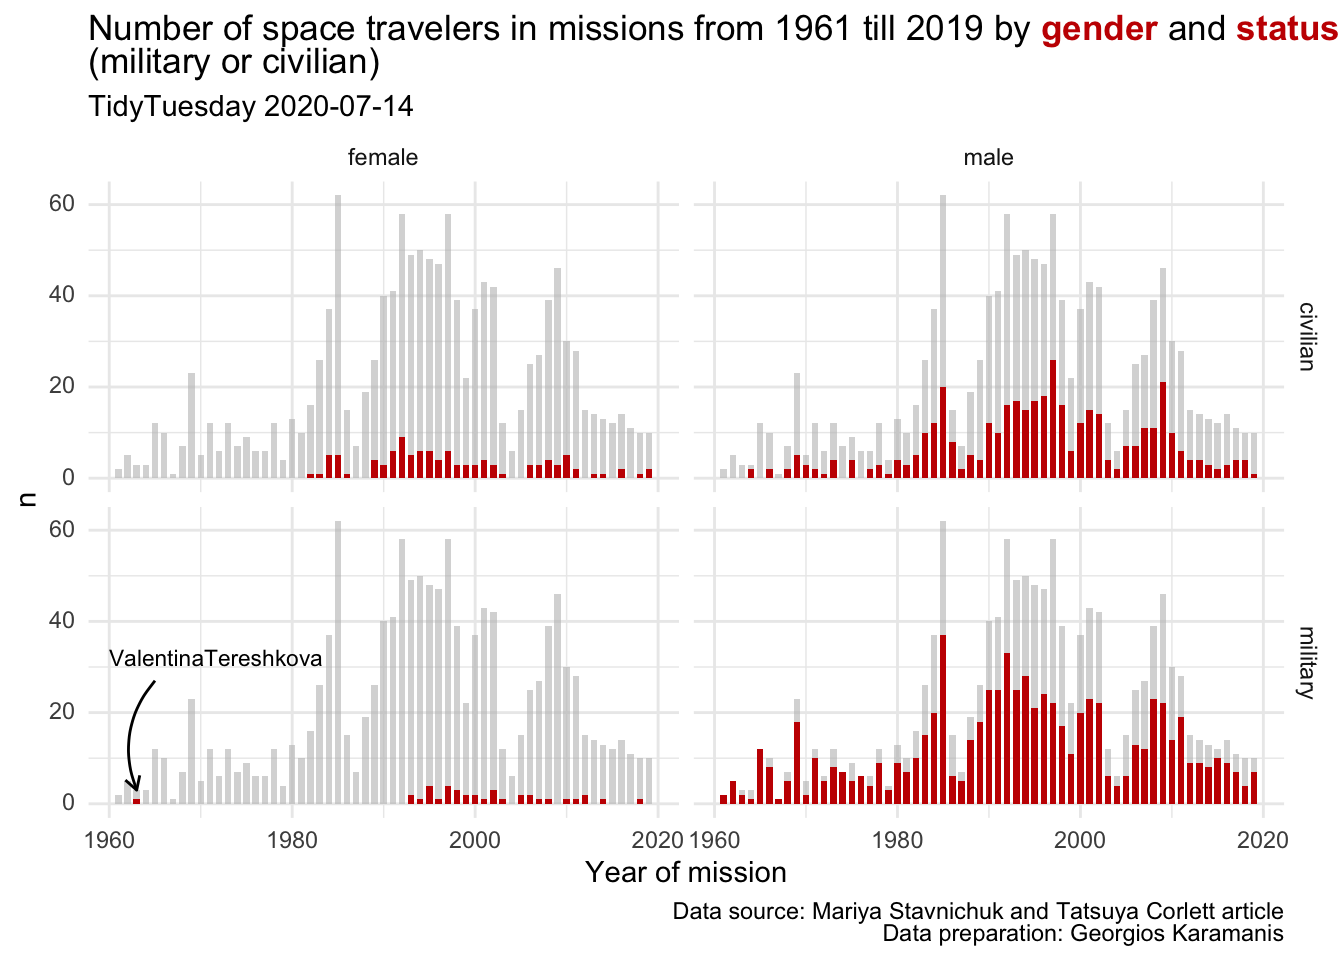
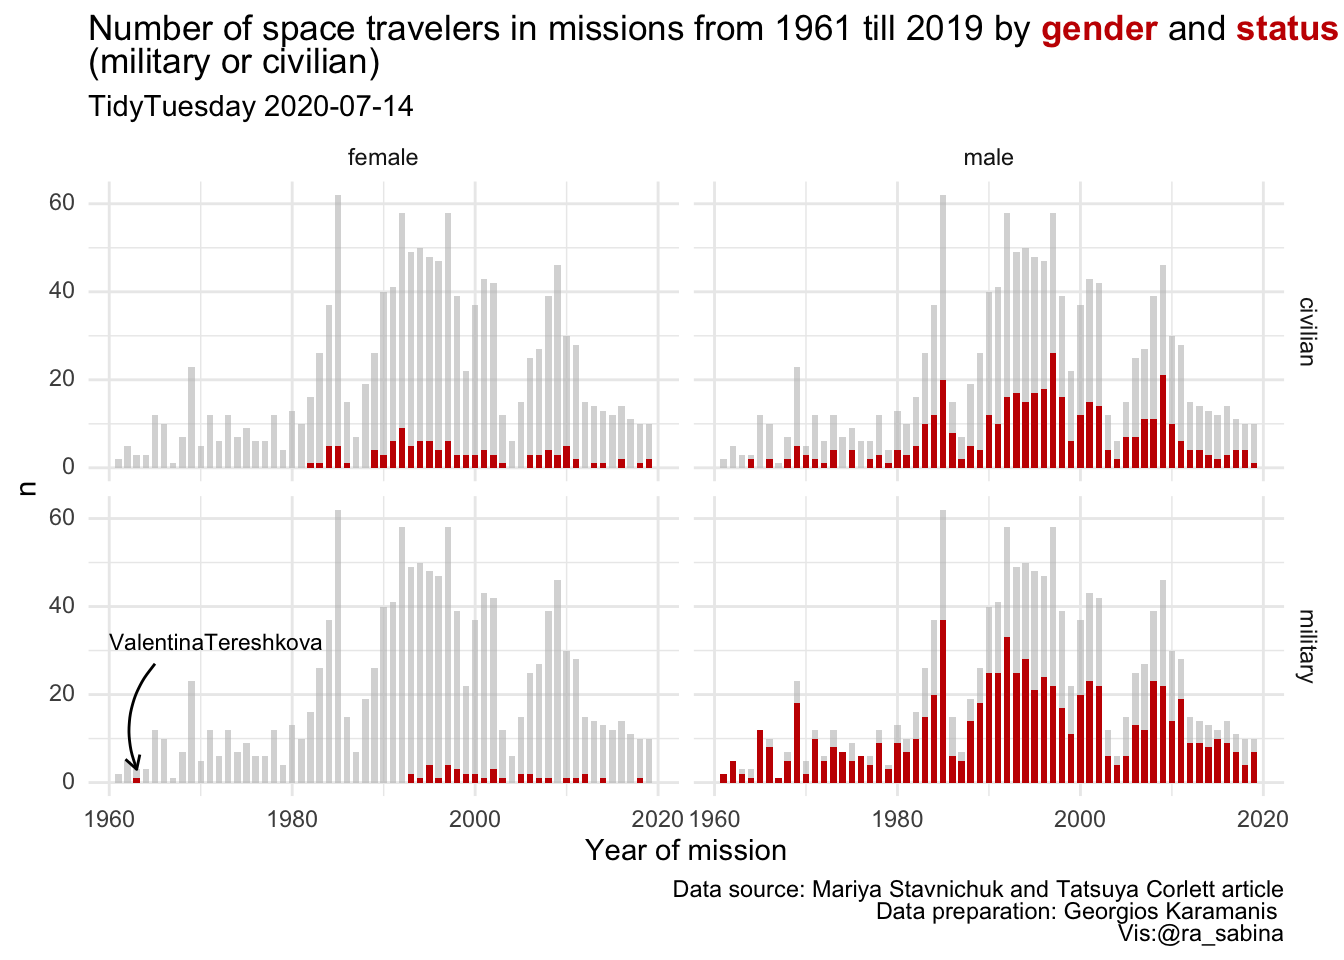
Build site.

diff --git a/docs/ttw29astronauts.html b/docs/ttw29astronauts.html
@@ -410,7 +410,7 @@ div.tocify {
 <div class="tab-content">
 <div id="summary" class="tab-pane fade in active">
 <p>
-<strong>Last updated:</strong> 2020-09-10
+<strong>Last updated:</strong> 2020-09-11
 </p>
 <p>
 <strong>Checks:</strong> <span class="glyphicon glyphicon-ok text-success" aria-hidden="true"></span> 7 <span class="glyphicon glyphicon-exclamation-sign text-danger" aria-hidden="true"></span> 0
@@ -501,16 +501,16 @@ This reproducible <a href="http://rmarkdown.rstudio.com">R Markdown</a> analysis
 <div class="panel panel-default">
 <div class="panel-heading">
 <p class="panel-title">
-<a data-toggle="collapse" data-parent="#workflowr-checks" href="#strongRepositoryversionstrongahrefhttpsgithubcomSabinaRatidytuesdaytree304b51219d8760bfdd3509918ac3e0d3a50d3c5ftargetblank304b512a"> <span class="glyphicon glyphicon-ok text-success" aria-hidden="true"></span> <strong>Repository version:</strong> <a href="https://github.com/SabinaRa/tidytuesday/tree/304b51219d8760bfdd3509918ac3e0d3a50d3c5f" target="_blank">304b512</a> </a>
+<a data-toggle="collapse" data-parent="#workflowr-checks" href="#strongRepositoryversionstrongahrefhttpsgithubcomSabinaRatidytuesdaytreef739906c455e5e831137bc5bf4555150503d8bf1targetblankf739906a"> <span class="glyphicon glyphicon-ok text-success" aria-hidden="true"></span> <strong>Repository version:</strong> <a href="https://github.com/SabinaRa/tidytuesday/tree/f739906c455e5e831137bc5bf4555150503d8bf1" target="_blank">f739906</a> </a>
 </p>
 </div>
[2 lines of base64/hex data omitted]
 <div class="panel-body">
 <p>
 Great! You are using Git for version control. Tracking code development and connecting the code version to the results is critical for reproducibility.
 </p>
 <p>
-The results in this page were generated with repository version <a href="https://github.com/SabinaRa/tidytuesday/tree/304b51219d8760bfdd3509918ac3e0d3a50d3c5f" target="_blank">304b512</a>. See the <em>Past versions</em> tab to see a history of the changes made to the R Markdown and HTML files.
+The results in this page were generated with repository version <a href="https://github.com/SabinaRa/tidytuesday/tree/f739906c455e5e831137bc5bf4555150503d8bf1" target="_blank">f739906</a>. See the <em>Past versions</em> tab to see a history of the changes made to the R Markdown and HTML files.
 </p>
 <p>
 Note that you need to be careful to ensure that all relevant files for the analysis have been committed to Git prior to generating the results (you can use <code>wflow_publish</code> or <code>wflow_git_commit</code>). workflowr only checks the R Markdown file, but you know if there are other scripts or data files that it depends on. Below is the status of the Git repository when the results were generated:
@@ -560,6 +560,40 @@ Message
 </tr>
 </thead>
 <tbody>
+<tr>
+<td>
+Rmd
+</td>
+<td>
+<a href="https://github.com/SabinaRa/tidytuesday/blob/f739906c455e5e831137bc5bf4555150503d8bf1/analysis/ttw29astronauts.Rmd" target="_blank">f739906</a>
+</td>
+<td>
+Sabina Rako
+</td>
+<td>
+2020-09-11
+</td>
+<td>
+Plot updated
+</td>
+</tr>
+<tr>
+<td>
+html
+</td>
+<td>
+<a href="https://rawcdn.githack.com/SabinaRa/tidytuesday/349209a423e45ed0a0b612e86b5ba5ff4055f228/docs/ttw29astronauts.html" target="_blank">349209a</a>
+</td>
+<td>
+Sabina Rako
+</td>
+<td>
+2020-09-10
+</td>
+<td>
+Build site.
+</td>
+</tr>
 <tr>
 <td>
 html
@@ -1254,7 +1288,7 @@ astronauts_g_mc</code></pre>
   facet_grid( military_civilian ~ sex) + 
   xlab(&quot;Year of mission&quot;) + 
   mdthemes::md_theme_minimal() + 
-  labs(title = &quot;Number of space travelers in missions from 1961 till 2019 by &lt;span style=color:#c70000&gt;**gender**&lt;/span&gt; and &lt;span style=color:#c70000&gt;**status**&lt;/span&gt;&lt;br&gt;(military or civilian)&quot;, subtitle = &quot;TidyTuesday 2020-07-14&quot;, caption = &quot;Data source: Mariya Stavnichuk and Tatsuya Corlett article&lt;br&gt;Data preparation: Georgios Karamanis&quot;) 
+  labs(title = &quot;Number of space travelers in missions from 1961 till 2019 by &lt;span style=color:#c70000&gt;**gender**&lt;/span&gt; and &lt;span style=color:#c70000&gt;**status**&lt;/span&gt;&lt;br&gt;(military or civilian)&quot;, subtitle = &quot;TidyTuesday 2020-07-14&quot;, caption = &quot;Data source: Mariya Stavnichuk and Tatsuya Corlett article&lt;br&gt;Data preparation: Georgios Karamanis &lt;br&gt; Vis:@ra_sabina&quot;) 
 
 p</code></pre>
 <p><img src="figure/ttw29astronauts.Rmd/unnamed-chunk-4-1.png" width="672" style="display: block; margin: auto;" /></p>

diff --git a/docs/license.html b/docs/license.html
@@ -334,7 +334,7 @@ $(document).ready(function () {
 <div class="tab-content">
 <div id="summary" class="tab-pane fade in active">
 <p>
-<strong>Last updated:</strong> 2020-09-10
+<strong>Last updated:</strong> 2020-09-11
 </p>
 <p>
 <strong>Checks:</strong> <span class="glyphicon glyphicon-ok text-success" aria-hidden="true"></span> 2 <span class="glyphicon glyphicon-exclamation-sign text-danger" aria-hidden="true"></span> 0
@@ -365,16 +365,16 @@ This reproducible <a href="http://rmarkdown.rstudio.com">R Markdown</a> analysis
 <div class="panel panel-default">
 <div class="panel-heading">
 <p class="panel-title">
-<a data-toggle="collapse" data-parent="#workflowr-checks" href="#strongRepositoryversionstrongahrefhttpsgithubcomSabinaRatidytuesdaytree304b51219d8760bfdd3509918ac3e0d3a50d3c5ftargetblank304b512a"> <span class="glyphicon glyphicon-ok text-success" aria-hidden="true"></span> <strong>Repository version:</strong> <a href="https://github.com/SabinaRa/tidytuesday/tree/304b51219d8760bfdd3509918ac3e0d3a50d3c5f" target="_blank">304b512</a> </a>
+<a data-toggle="collapse" data-parent="#workflowr-checks" href="#strongRepositoryversionstrongahrefhttpsgithubcomSabinaRatidytuesdaytreef739906c455e5e831137bc5bf4555150503d8bf1targetblankf739906a"> <span class="glyphicon glyphicon-ok text-success" aria-hidden="true"></span> <strong>Repository version:</strong> <a href="https://github.com/SabinaRa/tidytuesday/tree/f739906c455e5e831137bc5bf4555150503d8bf1" target="_blank">f739906</a> </a>
 </p>
 </div>
[2 lines of base64/hex data omitted]
 <div class="panel-body">
 <p>
 Great! You are using Git for version control. Tracking code development and connecting the code version to the results is critical for reproducibility.
 </p>
 <p>
-The results in this page were generated with repository version <a href="https://github.com/SabinaRa/tidytuesday/tree/304b51219d8760bfdd3509918ac3e0d3a50d3c5f" target="_blank">304b512</a>. See the <em>Past versions</em> tab to see a history of the changes made to the R Markdown and HTML files.
+The results in this page were generated with repository version <a href="https://github.com/SabinaRa/tidytuesday/tree/f739906c455e5e831137bc5bf4555150503d8bf1" target="_blank">f739906</a>. See the <em>Past versions</em> tab to see a history of the changes made to the R Markdown and HTML files.
 </p>
 <p>
 Note that you need to be careful to ensure that all relevant files for the analysis have been committed to Git prior to generating the results (you can use <code>wflow_publish</code> or <code>wflow_git_commit</code>). workflowr only checks the R Markdown file, but you know if there are other scripts or data files that it depends on. Below is the status of the Git repository when the results were generated:
@@ -424,6 +424,23 @@ Message
 </tr>
 </thead>
 <tbody>
+<tr>
+<td>
+html
+</td>
+<td>
+<a href="https://rawcdn.githack.com/SabinaRa/tidytuesday/349209a423e45ed0a0b612e86b5ba5ff4055f228/docs/license.html" target="_blank">349209a</a>
+</td>
+<td>
+Sabina Rako
+</td>
+<td>
+2020-09-10
+</td>
+<td>
+Build site.
+</td>
+</tr>
 <tr>
 <td>
 html

diff --git a/docs/about.html b/docs/about.html
@@ -334,7 +334,7 @@ $(document).ready(function () {
 <div class="tab-content">
 <div id="summary" class="tab-pane fade in active">
 <p>
-<strong>Last updated:</strong> 2020-09-10
+<strong>Last updated:</strong> 2020-09-11
 </p>
 <p>
 <strong>Checks:</strong> <span class="glyphicon glyphicon-ok text-success" aria-hidden="true"></span> 2 <span class="glyphicon glyphicon-exclamation-sign text-danger" aria-hidden="true"></span> 0
@@ -365,16 +365,16 @@ This reproducible <a href="http://rmarkdown.rstudio.com">R Markdown</a> analysis
 <div class="panel panel-default">
 <div class="panel-heading">
 <p class="panel-title">
-<a data-toggle="collapse" data-parent="#workflowr-checks" href="#strongRepositoryversionstrongahrefhttpsgithubcomSabinaRatidytuesdaytree304b51219d8760bfdd3509918ac3e0d3a50d3c5ftargetblank304b512a"> <span class="glyphicon glyphicon-ok text-success" aria-hidden="true"></span> <strong>Repository version:</strong> <a href="https://github.com/SabinaRa/tidytuesday/tree/304b51219d8760bfdd3509918ac3e0d3a50d3c5f" target="_blank">304b512</a> </a>
+<a data-toggle="collapse" data-parent="#workflowr-checks" href="#strongRepositoryversionstrongahrefhttpsgithubcomSabinaRatidytuesdaytreef739906c455e5e831137bc5bf4555150503d8bf1targetblankf739906a"> <span class="glyphicon glyphicon-ok text-success" aria-hidden="true"></span> <strong>Repository version:</strong> <a href="https://github.com/SabinaRa/tidytuesday/tree/f739906c455e5e831137bc5bf4555150503d8bf1" target="_blank">f739906</a> </a>
 </p>
 </div>
[2 lines of base64/hex data omitted]
 <div class="panel-body">
 <p>
 Great! You are using Git for version control. Tracking code development and connecting the code version to the results is critical for reproducibility.
 </p>
 <p>
-The results in this page were generated with repository version <a href="https://github.com/SabinaRa/tidytuesday/tree/304b51219d8760bfdd3509918ac3e0d3a50d3c5f" target="_blank">304b512</a>. See the <em>Past versions</em> tab to see a history of the changes made to the R Markdown and HTML files.
+The results in this page were generated with repository version <a href="https://github.com/SabinaRa/tidytuesday/tree/f739906c455e5e831137bc5bf4555150503d8bf1" target="_blank">f739906</a>. See the <em>Past versions</em> tab to see a history of the changes made to the R Markdown and HTML files.
 </p>
 <p>
 Note that you need to be careful to ensure that all relevant files for the analysis have been committed to Git prior to generating the results (you can use <code>wflow_publish</code> or <code>wflow_git_commit</code>). workflowr only checks the R Markdown file, but you know if there are other scripts or data files that it depends on. Below is the status of the Git repository when the results were generated:
@@ -424,6 +424,23 @@ Message
 </tr>
 </thead>
 <tbody>
+<tr>
+<td>
+html
+</td>
+<td>
+<a href="https://rawcdn.githack.com/SabinaRa/tidytuesday/349209a423e45ed0a0b612e86b5ba5ff4055f228/docs/about.html" target="_blank">349209a</a>
+</td>
+<td>
+Sabina Rako
+</td>
+<td>
+2020-09-10
+</td>
+<td>
+Build site.
+</td>
+</tr>
 <tr>
 <td>
 html

diff --git a/docs/index.html b/docs/index.html
@@ -334,7 +334,7 @@ $(document).ready(function () {
 <div class="tab-content">
 <div id="summary" class="tab-pane fade in active">
 <p>
-<strong>Last updated:</strong> 2020-09-10
+<strong>Last updated:</strong> 2020-09-11
 </p>
 <p>
 <strong>Checks:</strong> <span class="glyphicon glyphicon-ok text-success" aria-hidden="true"></span> 2 <span class="glyphicon glyphicon-exclamation-sign text-danger" aria-hidden="true"></span> 0
@@ -365,16 +365,16 @@ This reproducible <a href="http://rmarkdown.rstudio.com">R Markdown</a> analysis
 <div class="panel panel-default">
 <div class="panel-heading">
 <p class="panel-title">
-<a data-toggle="collapse" data-parent="#workflowr-checks" href="#strongRepositoryversionstrongahrefhttpsgithubcomSabinaRatidytuesdaytree304b51219d8760bfdd3509918ac3e0d3a50d3c5ftargetblank304b512a"> <span class="glyphicon glyphicon-ok text-success" aria-hidden="true"></span> <strong>Repository version:</strong> <a href="https://github.com/SabinaRa/tidytuesday/tree/304b51219d8760bfdd3509918ac3e0d3a50d3c5f" target="_blank">304b512</a> </a>
+<a data-toggle="collapse" data-parent="#workflowr-checks" href="#strongRepositoryversionstrongahrefhttpsgithubcomSabinaRatidytuesdaytreef739906c455e5e831137bc5bf4555150503d8bf1targetblankf739906a"> <span class="glyphicon glyphicon-ok text-success" aria-hidden="true"></span> <strong>Repository version:</strong> <a href="https://github.com/SabinaRa/tidytuesday/tree/f739906c455e5e831137bc5bf4555150503d8bf1" target="_blank">f739906</a> </a>
 </p>
 </div>
[2 lines of base64/hex data omitted]
 <div class="panel-body">
 <p>
 Great! You are using Git for version control. Tracking code development and connecting the code version to the results is critical for reproducibility.
 </p>
 <p>
-The results in this page were generated with repository version <a href="https://github.com/SabinaRa/tidytuesday/tree/304b51219d8760bfdd3509918ac3e0d3a50d3c5f" target="_blank">304b512</a>. See the <em>Past versions</em> tab to see a history of the changes made to the R Markdown and HTML files.
+The results in this page were generated with repository version <a href="https://github.com/SabinaRa/tidytuesday/tree/f739906c455e5e831137bc5bf4555150503d8bf1" target="_blank">f739906</a>. See the <em>Past versions</em> tab to see a history of the changes made to the R Markdown and HTML files.
 </p>
 <p>
 Note that you need to be careful to ensure that all relevant files for the analysis have been committed to Git prior to generating the results (you can use <code>wflow_publish</code> or <code>wflow_git_commit</code>). workflowr only checks the R Markdown file, but you know if there are other scripts or data files that it depends on. Below is the status of the Git repository when the results were generated:
@@ -424,6 +424,23 @@ Message
 </tr>
 </thead>
 <tbody>
+<tr>
+<td>
+html
+</td>
+<td>
+<a href="https://rawcdn.githack.com/SabinaRa/tidytuesday/349209a423e45ed0a0b612e86b5ba5ff4055f228/docs/index.html" target="_blank">349209a</a>
+</td>
+<td>
+Sabina Rako
+</td>
+<td>
+2020-09-10
+</td>
+<td>
+Build site.
+</td>
+</tr>
 <tr>
 <td>
 html

diff --git a/docs/ttw37friends.html b/docs/ttw37friends.html
@@ -410,7 +410,7 @@ div.tocify {
 <div class="tab-content">
 <div id="summary" class="tab-pane fade in active">
 <p>
-<strong>Last updated:</strong> 2020-09-10
+<strong>Last updated:</strong> 2020-09-11
 </p>
 <p>
 <strong>Checks:</strong> <span class="glyphicon glyphicon-ok text-success" aria-hidden="true"></span> 7 <span class="glyphicon glyphicon-exclamation-sign text-danger" aria-hidden="true"></span> 0
@@ -501,16 +501,16 @@ This reproducible <a href="http://rmarkdown.rstudio.com">R Markdown</a> analysis
 <div class="panel panel-default">
 <div class="panel-heading">
 <p class="panel-title">
-<a data-toggle="collapse" data-parent="#workflowr-checks" href="#strongRepositoryversionstrongahrefhttpsgithubcomSabinaRatidytuesdaytree304b51219d8760bfdd3509918ac3e0d3a50d3c5ftargetblank304b512a"> <span class="glyphicon glyphicon-ok text-success" aria-hidden="true"></span> <strong>Repository version:</strong> <a href="https://github.com/SabinaRa/tidytuesday/tree/304b51219d8760bfdd3509918ac3e0d3a50d3c5f" target="_blank">304b512</a> </a>
+<a data-toggle="collapse" data-parent="#workflowr-checks" href="#strongRepositoryversionstrongahrefhttpsgithubcomSabinaRatidytuesdaytreef739906c455e5e831137bc5bf4555150503d8bf1targetblankf739906a"> <span class="glyphicon glyphicon-ok text-success" aria-hidden="true"></span> <strong>Repository version:</strong> <a href="https://github.com/SabinaRa/tidytuesday/tree/f739906c455e5e831137bc5bf4555150503d8bf1" target="_blank">f739906</a> </a>
 </p>
 </div>
[2 lines of base64/hex data omitted]
 <div class="panel-body">
 <p>
 Great! You are using Git for version control. Tracking code development and connecting the code version to the results is critical for reproducibility.
 </p>
 <p>
-The results in this page were generated with repository version <a href="https://github.com/SabinaRa/tidytuesday/tree/304b51219d8760bfdd3509918ac3e0d3a50d3c5f" target="_blank">304b512</a>. See the <em>Past versions</em> tab to see a history of the changes made to the R Markdown and HTML files.
+The results in this page were generated with repository version <a href="https://github.com/SabinaRa/tidytuesday/tree/f739906c455e5e831137bc5bf4555150503d8bf1" target="_blank">f739906</a>. See the <em>Past versions</em> tab to see a history of the changes made to the R Markdown and HTML files.
 </p>
 <p>
 Note that you need to be careful to ensure that all relevant files for the analysis have been committed to Git prior to generating the results (you can use <code>wflow_publish</code> or <code>wflow_git_commit</code>). workflowr only checks the R Markdown file, but you know if there are other scripts or data files that it depends on. Below is the status of the Git repository when the results were generated:
@@ -560,6 +560,23 @@ Message
 </tr>
 </thead>
 <tbody>
+<tr>
+<td>
+html
+</td>
+<td>
+<a href="https://rawcdn.githack.com/SabinaRa/tidytuesday/349209a423e45ed0a0b612e86b5ba5ff4055f228/docs/ttw37friends.html" target="_blank">349209a</a>
+</td>
+<td>
+Sabina Rako
+</td>
+<td>
+2020-09-10
+</td>
+<td>
+Build site.
+</td>
+</tr>
 <tr>
 <td>
 html
